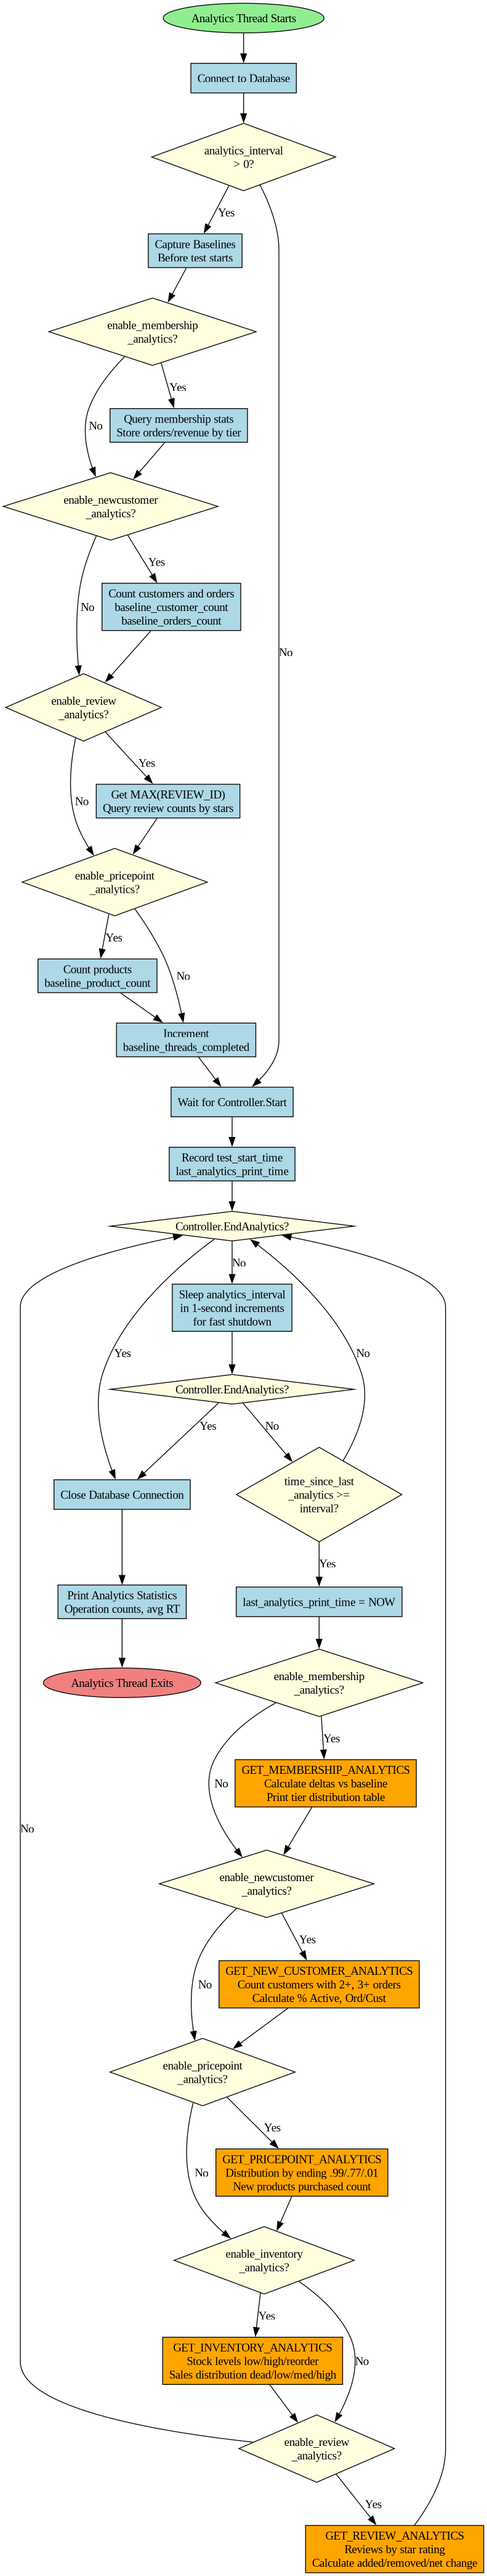
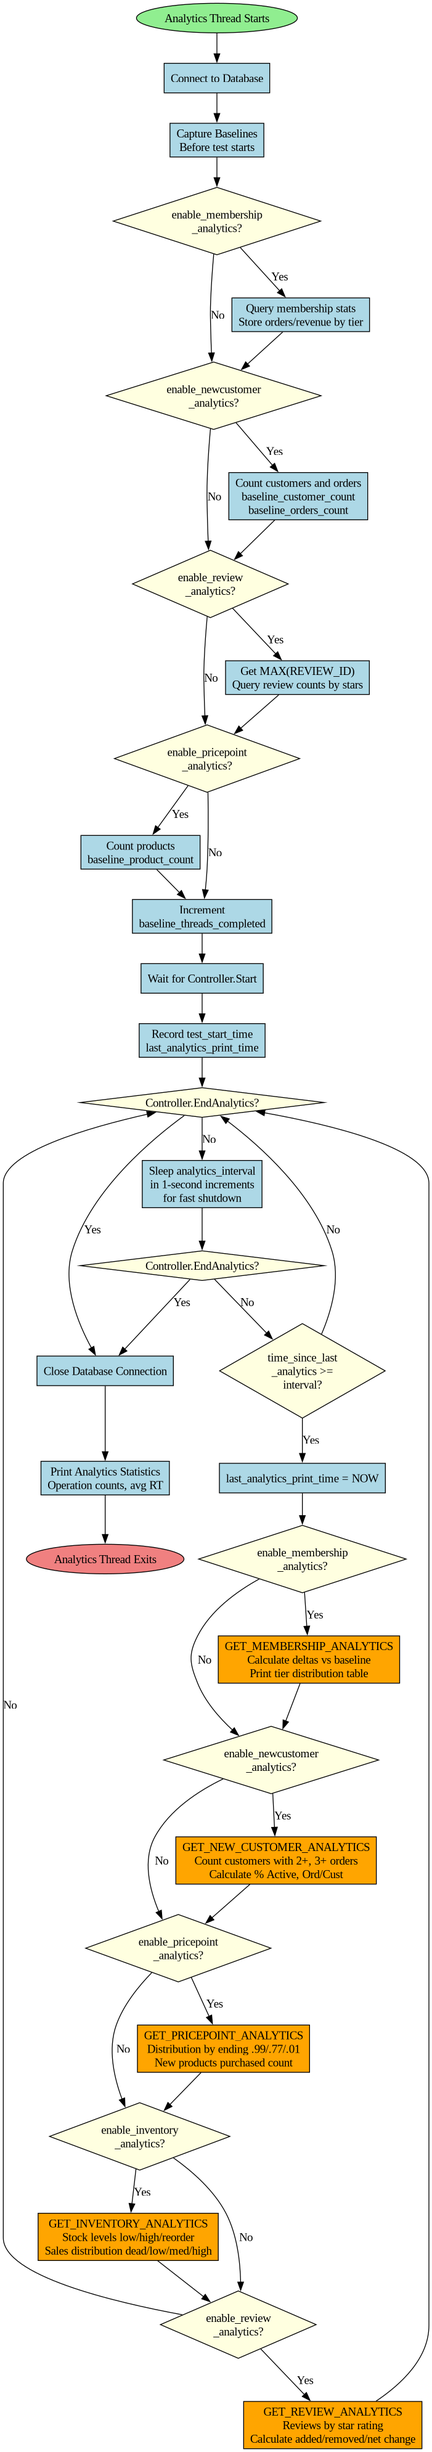
Updated analytics flowchart

Changed region(s): [[0.0, 0.0, 1.0, 1.0]]

diff --git a/README.md b/README.md
@@ -101,10 +101,7 @@ The analytics thread captures baseline metrics before the test starts, then peri
 ```mermaid
 graph TD
     Start([Analytics Thread Starts]) --> Connect[Connect to Database]
-    Connect --> CheckInterval{analytics_interval<br/>> 0?}
-
-    CheckInterval -->|No| WaitStart[Wait for Controller.Start]
-    CheckInterval -->|Yes| CaptureBaselines[Capture Baselines<br/>Before test starts]
+    Connect --> CaptureBaselines[Capture Baselines<br/>Before test starts]
 
     CaptureBaselines --> MembershipBaseline{enable_membership<br/>_analytics?}
     MembershipBaseline -->|Yes| CaptureMembership[Query membership stats<br/>Store orders/revenue by tier]
